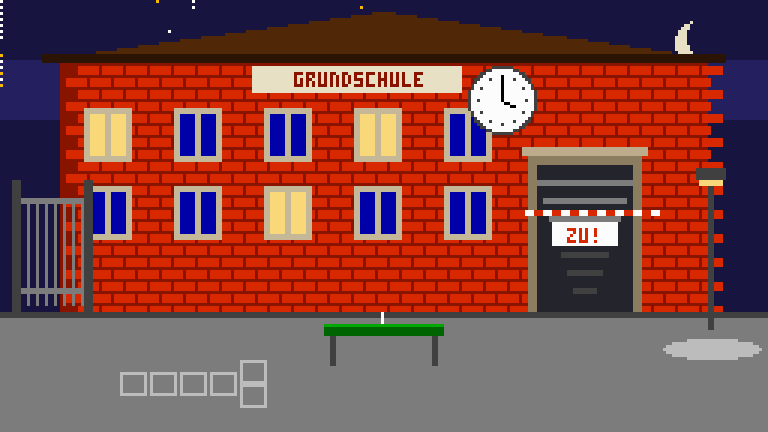
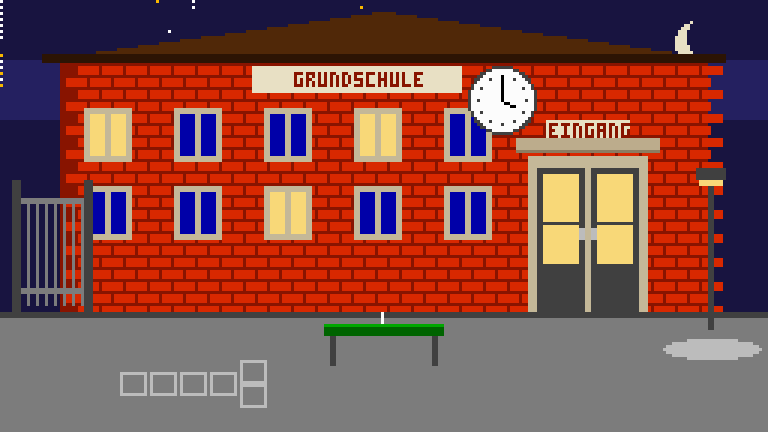
Spiel: Figuren verschwinden bzw. wechseln den Platz erst nach dem Lesen des Textes; Hohlbein und Dröhn kleben im Archiv verkleinert im Hintergrund (Klebemasse sichtbar), Ausgang frei; Stadtplan mit Hallenbad Greven als Baustelle (OSM, Am Hallenbad 3), Freibad nur beschriftet; Schule mit Flur, drei K

Changed region(s): [[0.6562, 0.2708, 0.875, 0.7222]]

diff --git a/src/FraktionPerfekt.Web/Spiel/logik.js b/src/FraktionPerfekt.Web/Spiel/logik.js
@@ -36,7 +36,7 @@
         buero: { name: 'Zukunftsschmiede', x: 51.8, y: 27.9 },
         archiv: { name: 'Rathausarchiv', x: 47.2, y: 35 },
         ems: { name: 'Ems-Ufer', x: 35.3, y: 29.9 },
-        baustelle: { name: 'Baustelle Badsanierung', x: 64.3, y: 82.1 },
+        baustelle: { name: 'Baustelle Hallenbad', x: 40.0, y: 43.0 },
         schule: { name: 'Martin-Luther-Grundschule', x: 47.6, y: 24.2 }
     };
 
@@ -195,19 +195,29 @@
                 },
                 {
                     id: 'gegner', name: 'Hohlbein und Dröhn (AfD)', x: 11.7, y: 48.6, b: 17.2, h: 45.8, form: 'gegner',
-                    sichtbar: (z) => z.flags.gegnerArchiv && !z.flags.gegnerArchivFest,
-                    ansehen: () => antwort('Kreissprecher Hohlbein und Beisitzer Dröhn. Großes Auftreten, kleines Leseverständnis. Sie versperren den Ausgang.'),
-                    reden: () => antwort(['Hohlbein: „Hier steht ‚Ausgang‘. Das heißt bestimmt ‚Ausland‘. Da gehen wir nicht hin.“', 'Dröhn: „Wir bleiben in der Tür stehen, bis die Altparteien den Gral rausrücken!“']),
+                    sichtbar: (z) => z.flags.gegnerArchiv,
+                    // Festgeklebt: verkleinert hinten an der Wand (perspektivisch weiter weg), der Ausgang ist frei
+                    hinten: (z) => z.flags.gegnerArchivFest,
+                    lage: (z) => (z.flags.gegnerArchivFest ? { x: 25, y: 46, b: 12, h: 30 } : null),
+                    ansehen: (z) => antwort(z.flags.gegnerArchivFest
+                        ? 'Hohlbein und Dröhn kleben hinten an der Wand fest – mitsamt Parkettdiele. Sie diskutieren, ob Dichtstoff „Systemkleber“ ist.'
+                        : 'Kreissprecher Hohlbein und Beisitzer Dröhn. Großes Auftreten, kleines Leseverständnis. Sie versperren den Ausgang.'),
+                    reden: (z) => (z.flags.gegnerArchivFest
+                        ? antwort(['Hohlbein: „Das ist Freiheitsberaubung! Ich rufe meinen Anwalt!“', 'Dröhn: „Unser Anwalt klebt auch. Der war gestern hier.“'])
+                        : antwort(['Hohlbein: „Hier steht ‚Ausgang‘. Das heißt bestimmt ‚Ausland‘. Da gehen wir nicht hin.“', 'Dröhn: „Wir bleiben in der Tür stehen, bis die Altparteien den Gral rausrücken!“'])),
                     f1: (z) => {
+                        if (z.flags.gegnerArchivFest) { return antwort('Joe: „Hält. 24 Stunden Haftung, wie versprochen.“'); }
                         if (!istJoe(z)) {
                             return antwort('Chani deutet die Körpersprache: breitbeinig, Arme verschränkt, Blick auf das Handy – sie warten auf eine Sprachnachricht vom Bundesvorstand.');
                         }
                         z.flags.gegnerArchivFest = true; ortFrei(z, 'ems'); punkte(z, 'kartusche1');
-                        return antwort(['Joe zieht die Kartusche wie einen Revolver. Zwei saubere Raupen Dichtstoff auf das Parkett – genau vor ihre Schuhspitzen.', 'Hohlbein tritt vor und klebt fest. Dröhn will ihn retten und klebt auch. „Elastisch, überstreichbar, 24 Stunden Haftung“, sagt Joe.', '(Neuer Ort auf der Karte: Ems-Ufer)']);
+                        return antwort(['Joe zieht die Kartusche wie einen Revolver. Zwei saubere Raupen Dichtstoff auf das Parkett – genau vor ihre Schuhspitzen.', 'Hohlbein tritt vor und klebt fest. Dröhn will ihn retten und klebt auch. „Elastisch, überstreichbar, 24 Stunden Haftung“, sagt Joe.', 'Christian schiebt die beiden samt loser Parkettdiele an die Rückwand. „Ordnung muss sein.“ Der Ausgang ist frei.', '(Neuer Ort auf der Karte: Ems-Ufer)']);
                     },
-                    f2: (z) => antwort(istJoe(z)
-                        ? 'Joe will ihnen Fugendichtstoff verkaufen. Sie fragen, ob der auch „aus Deutschland“ ist. Er ist es. Sie kaufen trotzdem nichts.'
-                        : 'Chani geht live. Die beiden posieren und erklären zehn Minuten lang das Wort „Altparteien“. Sie stehen dabei aber weiter in der Tür.')
+                    f2: (z) => antwort(z.flags.gegnerArchivFest
+                        ? (istJoe(z) ? 'Joe bietet Lösungsmittel an. Zum Listenpreis. Sie lehnen ab – „aus Prinzip“.' : 'Chani geht live. Die beiden winken von der Rückwand. Mehr Bewegung ist gerade nicht drin.')
+                        : istJoe(z)
+                            ? 'Joe will ihnen Fugendichtstoff verkaufen. Sie fragen, ob der auch „aus Deutschland“ ist. Er ist es. Sie kaufen trotzdem nichts.'
+                            : 'Chani geht live. Die beiden posieren und erklären zehn Minuten lang das Wort „Altparteien“. Sie stehen dabei aber weiter in der Tür.')
                 },
                 {
                     id: 'flurausgang', name: 'Tür zum Treppenhaus', x: 39.8, y: 16.7, b: 11.7, h: 55.6, form: 'tuer',
@@ -276,7 +286,7 @@
                         if (hat(z, 'siegel_exekutive')) { return antwort('Der dritte Pfahl ist jetzt einfach ein Pfahl.'); }
                         if (!z.flags.hinweisPfahl) { return antwort('Sieben Pfähle. Welcher? Vielleicht verrät die Inschrift an der Brücke mehr.'); }
                         geben(z, 'siegel_exekutive'); ortFrei(z, 'baustelle'); punkte(z, 'siegel2', 20);
-                        return antwort(['Der dritte Pfahl flussab ist hohl. Darin: ein Siegel mit einem Schlüsselbund. Das zweite Siegel!', '(Neuer Ort auf der Karte: Baustelle Badsanierung)']);
+                        return antwort(['Der dritte Pfahl flussab ist hohl. Darin: ein Siegel mit einem Schlüsselbund. Das zweite Siegel!', '(Neuer Ort auf der Karte: Baustelle Hallenbad)']);
                     }
                 },
                 {
@@ -287,9 +297,9 @@
         },
 
         baustelle: {
-            titel: 'Baustelle Badsanierung',
+            titel: 'Baustelle Hallenbad',
             stimmung: 'baustelle',
-            einstieg: 'Bauzaun, Bagger, ein leeres Becken – und eine Grube, die langsam vollläuft. Hohlbein und Dröhn schrauben Wegweiser ab.',
+            einstieg: 'Das Hallenbad wird saniert: Bauzaun, Bagger, ein leeres Becken – und eine Grube, die langsam vollläuft. Hohlbein und Dröhn schrauben Wegweiser ab.',
             hotspots: [
                 {
                     id: 'bauleiter', name: 'Bauleiterin Frau Kemper', x: 11.7, y: 48.6, b: 9.4, h: 45, form: 'person', farbe: '#f39c12',
@@ -350,7 +360,7 @@
         schule: {
             titel: 'Hof der Martin-Luther-Grundschule',
             stimmung: 'schule',
-            einstieg: 'Ein leerer Schulhof. Am Kellerabgang flattert Absperrband. Davor: Lore von den Grünen, mit Lastenrad und Gutachten.',
+            einstieg: 'Ein leerer Schulhof. Im Haupteingang brennt Licht – Elternabend. Davor: Lore von den Grünen, mit Lastenrad und Gutachten.',
             hotspots: [
                 {
                     id: 'lore', name: 'Lore (Grüne)', x: 19.5, y: 48.6, b: 9.4, h: 45.8, form: 'person', farbe: '#27ae60',
@@ -377,17 +387,51 @@
                     }
                 },
                 {
-                    id: 'kellergang', name: 'Kellergang', x: 68.75, y: 34, b: 14.8, h: 38, form: 'tuer',
-                    ansehen: () => antwort('Ein Kellerabgang mit Absperrband. Dahinter: Dunkelheit.'),
-                    benutzen: (z) => {
-                        if (!z.flags.abend) { return antwort('Lore hebt das Gutachten: „Seite 212!“'); }
-                        if (!hat(z, 'taschenlampe')) { return antwort('Stockdunkel. Ohne Licht geht hier niemand runter.'); }
-                        return antwort('Ihr knipst die Taschenlampe an und steigt hinab …', { szene: 'krypta' });
-                    }
+                    id: 'eingang', name: 'Haupteingang', x: 68.75, y: 36, b: 15.6, h: 36, form: 'tuer',
+                    ansehen: () => antwort('Der Haupteingang der Grundschule. Die Tür steht offen, drinnen ist Elternabend.'),
+                    benutzen: () => antwort('Ihr geht hinein.', { szene: 'schulflur' })
                 },
                 {
                     id: 'zurkarte', name: 'Schultor', x: 1.6, y: 41.7, b: 10.5, h: 30.6, form: 'pfeil',
                     benutzen: () => antwort('Zur Karte.', { szene: 'karte' })
+                }
+            ]
+        },
+
+        schulflur: {
+            titel: 'Flur der Martin-Luther-Grundschule',
+            stimmung: 'schule',
+            einstieg: 'Ein langer Flur: Kinderbilder, Turnbeutel, drei Klassenzimmer. Am Ende die Kellertür – mit Absperrband.',
+            hotspots: [
+                {
+                    id: 'klasse1a', name: 'Klasse 1a', x: 14, y: 30.6, b: 9.4, h: 41.7, form: 'tuer',
+                    ansehen: () => antwort('Klasse 1a. An der Tür hängt ein Zettel: „Bitte nicht stören – Mathearbeit wird korrigiert.“'),
+                    benutzen: () => antwort(['Abgeschlossen. Von drinnen ruft eine Lehrerin: „Ich korrigiere! Mit Rotstift!“', 'Ihr tretet einen respektvollen Schritt zurück.'])
+                },
+                {
+                    id: 'klasse2b', name: 'Klasse 2b', x: 34.4, y: 30.6, b: 9.4, h: 41.7, form: 'tuer',
+                    ansehen: () => antwort('Klasse 2b. Hinter der Tür: Stimmengewirr.'),
+                    benutzen: () => antwort(['Ihr öffnet die Tür einen Spalt. Drinnen tagt seit 19 Uhr der Elternabend – Thema: die Farbe der Turnbeutel.', 'Eine Mutter: „Wollen Sie sich als Klassenpflegschaft aufstellen lassen?“ Ihr schließt die Tür sehr leise.'])
+                },
+                {
+                    id: 'klasse4c', name: 'Klasse 4c', x: 54.7, y: 30.6, b: 9.4, h: 41.7, form: 'tuer',
+                    ansehen: () => antwort('Klasse 4c. Ein Schild: „Klassenrat tagt“.'),
+                    benutzen: (z) => antwort(istJoe(z)
+                        ? 'Joe klopft. Ein Kind öffnet: „Haben Sie einen Antrag? Ohne Antrag kein Rederecht.“ Die Tür geht wieder zu.'
+                        : 'Chani klopft. Ein Kind öffnet: „Wir stimmen gerade über die Hofpause ab. Gäste nur mit Tagesordnungspunkt.“ Die Tür geht wieder zu.')
+                },
+                {
+                    id: 'kellertuer', name: 'Kellertür', x: 75.8, y: 27.8, b: 11.7, h: 44.4, form: 'tuer',
+                    ansehen: () => antwort('Eine Stahltür, Aufschrift „KELLER“. Absperrband und ein Zettel: „Fledermausquartier – siehe Gutachten, Seite 212“.'),
+                    benutzen: (z) => {
+                        if (!z.flags.abend) { return antwort('Auf dem Zettel steht: „Zutritt erst nach dem Ausflug der Fledermäuse (ab 20:30 Uhr)“. Lore hat ihn unterschrieben.'); }
+                        if (!hat(z, 'taschenlampe')) { return antwort('Hinter der Tür ist es stockdunkel. Ohne Licht geht hier niemand runter.'); }
+                        return antwort('Ihr knipst die Taschenlampe an und steigt die Kellertreppe hinab …', { szene: 'krypta' });
+                    }
+                },
+                {
+                    id: 'zumhof', name: 'Ausgang zum Hof', x: 0, y: 27.8, b: 8.6, h: 44.4, form: 'pfeil',
+                    benutzen: () => antwort('Zurück auf den Schulhof.', { szene: 'schule' })
                 }
             ]
         },
@@ -428,7 +472,7 @@
                 },
                 {
                     id: 'zurueck', name: 'Treppe nach oben', x: 0, y: 55.6, b: 10, h: 21, form: 'pfeil',
-                    benutzen: () => antwort('Zurück auf den Schulhof.', { szene: 'schule' })
+                    benutzen: () => antwort('Zurück in den Schulflur.', { szene: 'schulflur' })
                 }
             ]
         },
@@ -834,7 +878,8 @@
         ['reisen', 'schule'],
         ['aktion', 'benutzen', 'uhr'],
         ['aktion', 'reden', 'lore'],
-        ['aktion', 'benutzen', 'kellergang'],
+        ['aktion', 'benutzen', 'eingang'],
+        ['aktion', 'benutzen', 'kellertuer'],
         ['aktion', 'f1', 'fresko'],
         ['aktion', 'benutzen', 'schloss'],
         ['dialog', 'schloss', 'urne'],

diff --git a/src/FraktionPerfekt.Web/Spiel/darstellung.js b/src/FraktionPerfekt.Web/Spiel/darstellung.js
@@ -18,6 +18,8 @@
     try { speicherObjekt = window.localStorage; } catch (_) { speicherObjekt = null; }
     const plaetze = S.speicherplaetze(speicherObjekt || { getItem() { throw new Error('kein Speicher'); }, setItem() { throw new Error('kein Speicher'); }, removeItem() { } });
 
+    // gehalten: Plätze der Nebenfiguren vor der letzten Aktion – Figuren verschwinden oder wechseln den Platz erst, wenn der Text gelesen ist
+    let gehalten = null;
     let z = null, warteschlange = [], danach = null, mini = null, pausiert = false, hover = null, auswahl = -1, reise = null, letzterOrt = 'buero';
     let verb = 'gehe', objekt = null;          // gewähltes Verb und Gegenstand („Benutze X mit …“)
     let blende = null;                          // { t, ziel } Irisblende
@@ -98,13 +100,19 @@
     function teil(t) { const b = G.bild(t.bild); if (b) { t2.drawImage(b, t.sx, t.sy || 0, t.b, t.h, Math.round(t.x), Math.round(t.y), t.b, t.h); } }
 
     /** Figur mit Fußpunkt (x, fussY) zeichnen; seitliche Bilder schauen nach rechts und werden für blick < 0 gespiegelt. */
-    function zeichneFigur(name, zustand, bildNr, x, fussY, blick, blinzeln, schatten) {
+    function zeichneFigur(name, zustand, bildNr, x, fussY, blick, blinzeln, schatten, skala, hinten, klebt) {
         const r = G.rahmen(name, zustand, bildNr, blinzeln), b = G.bild(r.bild);
         if (!b) { return; }
-        const px = Math.round(x - G.FUSS_X), py = Math.round(fussY - G.FUSS_Y);
-        if (schatten !== false) { t2.globalAlpha = 0.3; t2.fillStyle = '#000'; t2.beginPath(); t2.ellipse(Math.round(x), fussY, 9, 2, 0, 0, Math.PI * 2); t2.fill(); t2.globalAlpha = 1; }
-        if (r.seitlich && blick < 0) { t2.save(); t2.translate(Math.round(x) * 2, 0); t2.scale(-1, 1); t2.drawImage(b, r.sx, 0, 32, 64, px, py, 32, 64); t2.restore(); }
-        else { t2.drawImage(b, r.sx, 0, 32, 64, px, py, 32, 64); }
+        const s = skala || 1, bb = Math.round(32 * s), bh = Math.round(64 * s);
+        const px = Math.round(x - G.FUSS_X * s), py = Math.round(fussY - G.FUSS_Y * s);
+        if (schatten !== false) { t2.globalAlpha = 0.3; t2.fillStyle = '#000'; t2.beginPath(); t2.ellipse(Math.round(x), fussY, Math.round(9 * s), 2, 0, 0, Math.PI * 2); t2.fill(); t2.globalAlpha = 1; }
+        // Festgeklebt: schwarze Dichtstoff-Raupe unter den Schuhen
+        const kleber = klebt && G.bild('klebemasse_32x6');
+        if (kleber) { t2.drawImage(kleber, 0, 0, 32, 6, Math.round(x - 16 * s), Math.round(fussY - 4 * s), bb, Math.max(3, Math.round(6 * s))); }
+        if (hinten) { t2.save(); t2.filter = 'brightness(0.72)'; }
+        if (r.seitlich && blick < 0) { t2.save(); t2.translate(Math.round(x) * 2, 0); t2.scale(-1, 1); t2.drawImage(b, r.sx, 0, 32, 64, px, py, bb, bh); t2.restore(); }
+        else { t2.drawImage(b, r.sx, 0, 32, 64, px, py, bb, bh); }
+        if (hinten) { t2.restore(); }
         return py;
     }
 
@@ -124,12 +132,12 @@
         if (z.szene === 'ems') { for (let i = 0; i < 10; i++) { const x = Math.round((i * 47 + zeit * 8 * (1 + (i % 3))) % B), y = 96 + (i * 13) % 40; t2.fillStyle = 'rgb(188,228,252)'; t2.fillRect(x, y, 3 + (i % 2), 1); } }
         // Personen (NPC)
         const figuren = [];
-        for (const p of G.npcPlaetze(z, hs)) {
+        for (const p of (gehalten || G.npcPlaetze(z, hs))) {
             const redet = (sprecher === p.id || (sprecher === 'gegner' && p.id === 'finale')) && !textbox.hidden;
             let zustand = redet ? (sprecherSchreck ? 'erschrocken' : 'reden') : 'stehen';
             if (p.id === 'finale') { zustand = z.ende ? 'erschrocken' : p.name === 'hohlbein' ? 'reden' : 'stehen'; }
             const wackel = p.id === 'finale' && p.name === 'droehn' ? Math.floor(zeit * 3) % 2 : 0;
-            figuren.push({ y: p.y - wackel, name: p.name, x: p.x, zustand, blick: p.x > held[z.figur].x ? -1 : 1 });
+            figuren.push({ y: p.y - wackel, name: p.name, x: p.x, zustand, blick: p.x > held[z.figur].x ? -1 : 1, skala: p.skala, hinten: p.hinten, klebt: p.klebt });
         }
         for (const n of ['joe', 'chani']) {
             const hh = held[n];
@@ -142,7 +150,7 @@
         for (const f of figuren) {
             const bildNr = f.zustand === 'gehen' ? Math.floor(zeit * 10) : f.zustand === 'reden' ? Math.floor(zeit * 7) : f.zustand === 'benutzen' ? (benutzenBis - zeit > 0.4 ? 0 : 1) : 0;
             const blinzeln = f.zustand === 'stehen' && (Math.floor(zeit * 8) + f.name.length * 11) % 41 === 0;
-            const py = zeichneFigur(f.name, f.zustand, bildNr, f.x, f.y, f.blick, blinzeln);
+            const py = zeichneFigur(f.name, f.zustand, bildNr, f.x, f.y, f.blick, blinzeln, true, f.skala, f.hinten, f.klebt);
             if (f.held && f.held === z.figur && !mini && py !== undefined) { t2.fillStyle = 'rgb(255,214,79)'; t2.fillRect(Math.round(f.x) - 1, py - 4, 3, 2); t2.fillRect(Math.round(f.x), py - 2, 1, 1); }
         }
         // Hover-Rahmen (dezent)
@@ -317,6 +325,7 @@
     function zeigeText() {
         if (warteschlange.length === 0) {
             textbox.hidden = true; sprecher = null;
+            if (gehalten) { gehalten = null; ausweichen(); }
             const d = danach; danach = null;
             if (d && d.dialog) { dialogZeigen(d.dialog); }
             if (d && d.gespraech) { gespraechZeigen(d.gespraech); }
@@ -355,7 +364,15 @@
     function dialogZeigen(art) {
         const d = S.dialogInhalt(z, art);
         if (!d) { return; }
-        auswahlListe(d.frage, d.optionen.map((o) => ({ text: o.text, tun: () => { klang('klick'); ergebnis(S.dialogWahl(z, art, o.id)); } })));
+        auswahlListe(d.frage, d.optionen.map((o) => ({ text: o.text, tun: () => { klang('klick'); ergebnis(halten(() => S.dialogWahl(z, art, o.id))); } })));
+    }
+
+    /** Aktion ausführen; verschwinden dabei Figuren oder wechseln sie den Platz, bleiben sie sichtbar, bis der Text gelesen ist. */
+    function halten(tun) {
+        const szene = z.szene, vorher = szene === 'karte' ? null : G.npcPlaetze(z, S.sichtbareHotspots(z));
+        const e = tun();
+        if (vorher && z.szene === szene && (e.text || []).length > 0 && JSON.stringify(vorher) !== JSON.stringify(G.npcPlaetze(z, S.sichtbareHotspots(z)))) { gehalten = gehalten || vorher; }
+        return e;
     }
 
     /** Gesprächsauswahl mit Personen (Dialogbaum: Wer sind Sie? / Anliegen / Tschüss). */
@@ -378,7 +395,7 @@
     // ---------- Aktionen ----------
     function handlung(art, h, gegenstand) {
         const vorher = z.punkte, szene = z.szene;
-        const e = S.aktion(z, art, h.id, gegenstand);
+        const e = halten(() => S.aktion(z, art, h.id, gegenstand));
         if (art === 'f1' && z.figur === 'joe') { klang('kartusche'); } else { klang(z.punkte > vorher ? 'erfolg' : 'klick'); }
         if (art !== 'ansehen' && art !== 'reden') { benutzenBis = zeit + 0.8; }
         if (z.szene !== szene) {
@@ -556,7 +573,7 @@
     function starten(zustand, neu) {
         z = zustand; mini = null; reise = null; blende = null; pausiert = false; laufAuftrag = null;
         menueEl.hidden = true; titelEl.hidden = true; dialogEl.hidden = true; kontextEl.hidden = true;
-        warteschlange = []; danach = null; verb = 'gehe'; objekt = null;
+        warteschlange = []; danach = null; verb = 'gehe'; objekt = null; gehalten = null;
         aufStart();
         letzterOrt = S.ORTE[z.szene] ? z.szene : 'buero';
         $('leiste').hidden = false;

diff --git a/src/FraktionPerfekt.Web/Spiel/grafik.js b/src/FraktionPerfekt.Web/Spiel/grafik.js
@@ -9,10 +9,10 @@
 
     const PERSONEN = ['joe', 'joe_hut', 'chani', 'christian', 'joanna', 'lore', 'kemper', 'hohlbein', 'droehn'];
     const HINTERGRUENDE = ['buero_zukunftsschmiede_v2', 'buero_zukunftsschmiede_v2_ohne_umschlag', 'rathaus_flur_v2', 'archiv_v2', 'ems_ufer',
-        'baustelle_bad', 'baustelle_bad_grube_trocken', 'schulhof_nacht', 'krypta', 'tempel_eingang', 'tempel_eingang_offen', 'tempel_abgrund',
+        'baustelle_bad', 'baustelle_bad_grube_trocken', 'schulhof_nacht', 'schulflur', 'krypta', 'tempel_eingang', 'tempel_eingang_offen', 'tempel_abgrund',
         'tempel_abgrund_bruecke', 'tempel_finale', 'karte_greven'].map((n) => n + '_256x144');
     const OBJEKTE = ['ruderboot_46x14', 'motorboot_64x24', 'hindernisse_ems_96x24', 'wahlkugel_64x64_x4', 'lastenrad_48x32', 'fledermaeuse_8x6_x4',
-        'leck_26x12_x3', 'uhr_zeiger_26x23_x2', 'tor_siegel_46x72', 'bodenplatte_leuchtend_36x9', 'minispiel_ems_512x144', 'minispiel_gang_512x144', 'inventar_icons_16x16'];
+        'leck_26x12_x3', 'uhr_zeiger_26x23_x2', 'tor_siegel_46x72', 'bodenplatte_leuchtend_36x9', 'klebemasse_32x6', 'minispiel_ems_512x144', 'minispiel_gang_512x144', 'inventar_icons_16x16'];
     const NAMEN = HINTERGRUENDE.concat(OBJEKTE,
         PERSONEN.map((p) => p + '_spritesheet_32x64'), PERSONEN.map((p) => p + '_posen_32x64'), PERSONEN.map((p) => p + '_portraet_64x64'));
 
@@ -35,6 +35,7 @@
             ems: () => 'ems_ufer',
             baustelle: () => (f.grubeTrocken ? 'baustelle_bad_grube_trocken' : 'baustelle_bad'),
             schule: () => 'schulhof_nacht',
+            schulflur: () => 'schulflur',
             krypta: () => 'krypta',
             tempel: () => (f.kugelGeschafft ? 'tempel_finale' : f.gitterOffen ? (f.brueckeDa ? 'tempel_abgrund_bruecke' : 'tempel_abgrund') : 'tempel_eingang'),
             karte: () => 'karte_greven'
@@ -82,6 +83,7 @@
     // ---------- Stehplätze: keine Figur steht vor einer anderen ----------
     const ABSTAND = 24;                      // Mindestabstand zweier Fußpunkte (Körperbreite ≈ 22 px)
     const RAND_X = 14;
+    const HINTEN = 0.65;                     // Maßstab von Figuren im Hintergrund
     const NPC = { christian: 'christian', joanna: 'joanna', lore: 'lore', bauleiter: 'kemper' };
     function npcName(h) { return h.form === 'gegner' ? 'gegner' : NPC[h.id] || null; }
 
@@ -92,7 +94,12 @@
             const n = npcName(h);
             if (!n) { continue; }
             const r = R(h, z), mitte = r.x + r.b / 2, fuss = Math.min(BODEN - 2, r.y + r.h);
-            if (n === 'gegner') { p.push({ id: h.id, name: 'hohlbein', x: mitte - ABSTAND / 2, y: fuss }, { id: h.id, name: 'droehn', x: mitte + ABSTAND / 2, y: fuss - 1 }); }
+            if (n === 'gegner' && h.hinten && h.hinten(z)) {
+                // perspektivisch weiter hinten: verkleinert, dunkler, Fußpunkt höher; Abstand wie im Vordergrund (keine Figur vor einer anderen)
+                p.push({ id: h.id, name: 'hohlbein', x: mitte - ABSTAND / 2, y: fuss, skala: HINTEN, hinten: true, klebt: true },
+                    { id: h.id, name: 'droehn', x: mitte + ABSTAND / 2, y: fuss - 1, skala: HINTEN, hinten: true, klebt: true });
+            }
+            else if (n === 'gegner') { p.push({ id: h.id, name: 'hohlbein', x: mitte - ABSTAND / 2, y: fuss }, { id: h.id, name: 'droehn', x: mitte + ABSTAND / 2, y: fuss - 1 }); }
             else { p.push({ id: h.id, name: n, x: mitte, y: fuss }); }
         }
         if (z.szene === 'tempel' && z.flags.kugelGeschafft) {
@@ -159,7 +166,7 @@
         return c;
     }
 
-    const api = { B, H, BODEN, FUSS_X, FUSS_Y, NAMEN, ICONS, ABSTAND, R, npcName, npcPlaetze, freiesZiel, standplaetze, startplaetze, klickBeiText, hintergrund, ueberlagerungen, fackeln, rahmen, portraet, icon, laden, bild, ausschnitt };
+    const api = { B, H, BODEN, FUSS_X, FUSS_Y, NAMEN, ICONS, ABSTAND, HINTEN, R, npcName, npcPlaetze, freiesZiel, standplaetze, startplaetze, klickBeiText, hintergrund, ueberlagerungen, fackeln, rahmen, portraet, icon, laden, bild, ausschnitt };
     wurzel.Grafik = api;
     if (typeof module !== 'undefined' && module.exports) { module.exports = api; }
 })(typeof globalThis !== 'undefined' ? globalThis : this);

diff --git a/docs/spiel.md b/docs/spiel.md
@@ -24,7 +24,11 @@ Karte, Minispiele). Joe und Chani sind nach Fotos stilisiert; die Fotos liegen n
 - Porträts 96×96 im Textfeld mit Mimik (neutral, lacht, erschrocken).
 - Szenen mit Animationen: blinkendes Fax, Staub im Archiv, Wasser und Enten auf der Ems, tropfendes Leck, Fledermäuse,
   flackernde Fackeln; leichte Parallaxe; Irisblende beim Szenenwechsel; Reisekarte mit roter Reiselinie.
-- Screenshots aller Szenen: [`docs/spiel-screenshots/`](spiel-screenshots/).
+- Screenshots aller Szenen: [`docs/spiel-screenshots/`](spiel-screenshots/); Szenenbilder geänderter Szenen (15–19) erzeugt
+  `node tools/Grafik/szenenbilder.mjs` aus denselben Regeln wie das Spiel.
+- Figuren verschwinden oder wechseln den Platz erst, wenn der zugehörige Text gelesen ist. Hohlbein und Dröhn bleiben nach dem
+  Festkleben im Archiv verkleinert und abgedunkelt im Hintergrund stehen (mit schwarzer Klebemasse unter den Schuhen), der Ausgang ist frei.
+- Stadtplan: Station 4 ist das Hallenbad Greven (OSM-Gebäude „Hallenbad Greven“, Am Hallenbad 3); das Freibad steht ohne Nummer auf der Karte.
 
 ## Bedienung
 
@@ -53,11 +57,12 @@ Karte, Minispiele). Joe und Chani sind nach Fotos stilisiert; die Fotos liegen n
 3. **Ems-Ufer:** Joanna den **Stadtplan** geben (Umverteilung) → Paddel. **Chani:** Inschrift an der Brücke deuten →
    „dritter von sieben Pfählen“. Boot benutzen → **Bootsverfolgung** schaffen. Sieben Pfähle benutzen → **Siegel der
    Ausführung**. Weg zur Straße.
-4. **Baustelle Badsanierung:** **Joe:** Kartusche auf die leckende Leitung (Grube läuft leer). **Joe:**
+4. **Baustelle Hallenbad** (Sanierung; das Freibad ist nur beschriftet und nicht im Umbau): **Joe:** Kartusche auf die leckende Leitung (Grube läuft leer). **Joe:**
    Verkaufsgespräch mit Frau Kemper → Helme. Baugrube benutzen → **Siegel des Rechts**. **Chani:** Live-Story bei
    Hohlbein und Dröhn → sie stolpern in den Bauwagen. Bauzaun-Tor.
 5. **Martin-Luther-Grundschule:** Schulhofuhr benutzen (bis 20:30 warten, Fledermäuse fliegen aus). Mit Lore reden →
-   Lastenrad. Kellergang benutzen (Taschenlampe nötig).
+   Lastenrad. Durch den Haupteingang in den Schulflur (Klassenzimmer 1a, 2b, 4c mit Absagen), dort die Kellertür benutzen
+   (nach 20:30 Uhr, Taschenlampe nötig).
 6. **Krypta:** **Chani:** Wandfresko deuten → „von unten nach oben“. Symbolschloss: **Urne, Buch, Waage** →
    Tempelschlüssel. Tor benutzen (drei Siegel + Schlüssel).
 7. **Tempel:** Mit einer Figur auf die linke Bodenplatte, Figur wechseln, mit der anderen auf die rechte → Fallgitter
